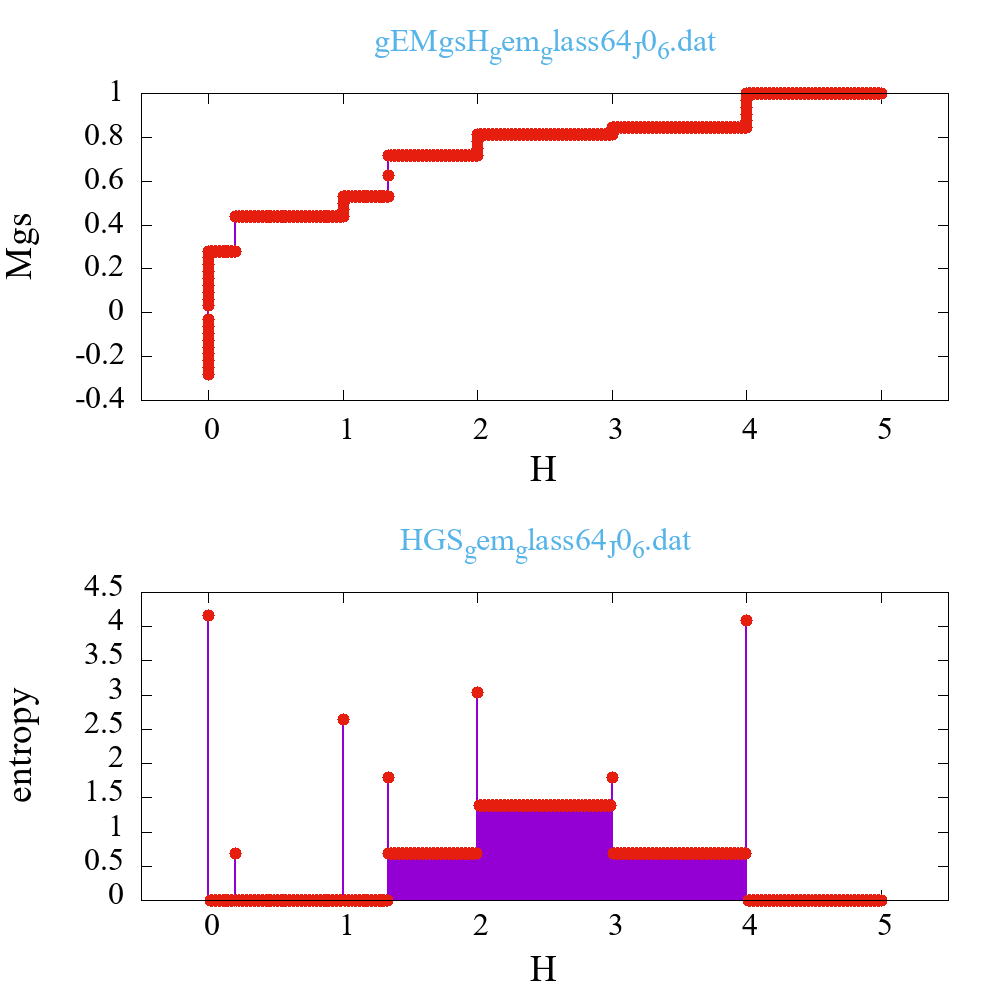
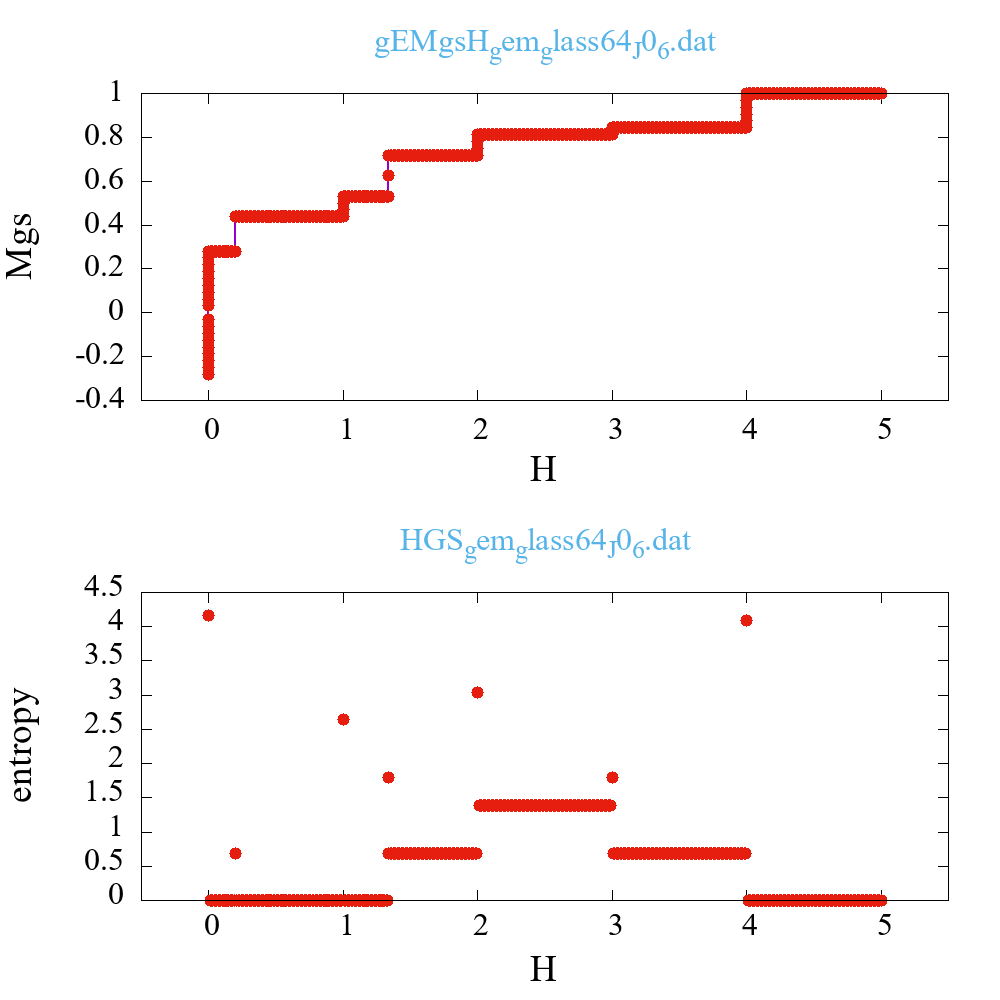
картинки в поле

Changed region(s): [[0.372, 0.806, 0.744, 0.899]]

diff --git a/main.tex b/main.tex
@@ -746,11 +746,18 @@ TO DO: \\
 
 
 \begin{figure}[H]
-	\centering
-	\includegraphics[width=0.5\textwidth]{cell_SI_64_J0_1.png}
-	\caption{Спиновый лед, 64 спина, P=0.5}
-	\label{fig:cell_SI_64_J0_1.png}
+	\begin{minipage}[h]{0.45\linewidth}
+		\includegraphics[width=1\linewidth]{cell_SI_64_J0_1.png}
+	\end{minipage}
+	\hfill
+	\begin{minipage}[h]{0.45\linewidth}
+		\includegraphics[width=1\linewidth]{cell_SG_64_J0_6.png}
+	\end{minipage}
+	\caption{Спиновый лед (слева) и спиновое стекло (справа), 64 спина, P=0}
+	\label{fig:cell_SI_SG}
 \end{figure}
+
+
 
 \begin{figure}[H]
 	\centering
@@ -759,114 +766,40 @@ TO DO: \\
 	\label{fig:_multiplot_SI64_J0_1.dat.png}
 \end{figure}
 
-\begin{figure}[H]
-	\centering
-	\includegraphics[width=1\textwidth]{HDOS_dos64_J0_1.dat_H0.png}
-	\caption{DOS, H=0, Спиновый лед, 64 спина, P=0.5}
-	\label{fig:HDOS_dos64_J0_1.dat_H0.png}
-\end{figure}
-
-\begin{figure}[H]
-	\centering
-	\includegraphics[width=1\textwidth]{HDOS_dos64_J0_1.dat_H1.png}
-	\caption{DOS, H=1, Спиновый лед, 64 спина, P=0.5}
-	\label{fig:HDOS_dos64_J0_1.dat_H1.png}
-\end{figure}
-
-\begin{figure}[H]
-	\centering
-	\includegraphics[width=1\textwidth]{HDOS_dos64_J0_1.dat_H2.png}
-	\caption{DOS, H=2, Спиновый лед, 64 спина, P=0.5}
-	\label{fig:HDOS_dos64_J0_1.dat_H2.png}
-\end{figure}
-
-\begin{figure}[H]
-	\centering
-	\includegraphics[width=1\textwidth]{HDOS_dos64_J0_1.dat_H3.png}
-	\caption{DOS, H=3, Спиновый лед, 64 спина, P=0.5}
-	\label{fig:HDOS_dos64_J0_1.dat_H3.png}
-\end{figure}
-
-\begin{figure}[H]
-	\centering
-	\includegraphics[width=1\textwidth]{HDOS_dos64_J0_1.dat_H4.png}
-	\caption{DOS, H=4, Спиновый лед, 64 спина, P=0.5}
-	\label{fig:HDOS_dos64_J0_1.dat_H4.png}
-\end{figure}
-
-\begin{figure}[H]
-	\centering
-	\includegraphics[width=1\textwidth]{HDOS_dos64_J0_1.dat_H5.png}
-	\caption{DOS, H=5, Спиновый лед, 64 спина, P=0.5}
-	\label{fig:HDOS_dos64_J0_1.dat_H5.png}
-\end{figure}
-
-
-
-
 
 
 \begin{figure}[H]
-	\centering
-	\includegraphics[width=0.5\textwidth]{cell_SG_64_J0_1.png}
-	\caption{Спиновое стекло, образец 1, 64 спина, P=0.5}
-	\label{fig:cell_SG_64_J0_1.png}
-\end{figure}
-
-\begin{figure}[H]
-	\centering
-	\includegraphics[width=1\textwidth]{_multiplot_SG64_J0_1.dat.png}
-	\caption{Спиновое стекло, образец 1, 64 спина, P=0.5}
-	\label{fig:_multiplot_SG64_J0_1.dat.png}
-\end{figure}
-
-\begin{figure}[H]
-	\centering
-	\includegraphics[width=1\textwidth]{HDOS_gem_glass64_J0_1.dat_H0.png}
-	\caption{DOS, H=0, Спиновое стекло, образец 1, 64 спина, P=0.5}
-	\label{fig:HDOS_gem_glass64_J0_1.dat_H0.png}
-\end{figure}
-
-\begin{figure}[H]
-	\centering
-	\includegraphics[width=1\textwidth]{HDOS_gem_glass64_J0_1.dat_H0.666667.png}
-	\caption{DOS, H=0.666667, Спиновое стекло, образец 1, 64 спина, P=0.5}
-	\label{fig:HDOS_gem_glass64_J0_1.dat_H0.666667.png}
-\end{figure}
-
-\begin{figure}[H]
-	\centering
-	\includegraphics[width=1\textwidth]{HDOS_gem_glass64_J0_1.dat_H1.png}
-	\caption{DOS, H=1, Спиновое стекло, образец 1, 64 спина, P=0.5}
-	\label{fig:HDOS_gem_glass64_J0_1.dat_H1.png}
-\end{figure}
-
-\begin{figure}[H]
-	\centering
-	\includegraphics[width=1\textwidth]{HDOS_gem_glass64_J0_1.dat_H2.png}
-	\caption{DOS, H=2, Спиновое стекло, образец 1, 64 спина, P=0.5}
-	\label{fig:HDOS_gem_glass64_J0_1.dat_H2.png}
-\end{figure}
-
-\begin{figure}[H]
-	\centering
-	\includegraphics[width=1\textwidth]{HDOS_gem_glass64_J0_1.dat_H3.png}
-	\caption{DOS, H=3, Спиновое стекло, образец 1, 64 спина, P=0.5}
-	\label{fig:HDOS_gem_glass64_J0_1.dat_H3.png}
-\end{figure}
-
-\begin{figure}[H]
-	\centering
-	\includegraphics[width=1\textwidth]{HDOS_gem_glass64_J0_1.dat_H4.png}
-	\caption{DOS, H=4, Спиновое стекло, образец 1, 64 спина, P=0.5}
-	\label{fig:HDOS_gem_glass64_J0_1.dat_H4.png}
-\end{figure}
-
-\begin{figure}[H]
-	\centering
-	\includegraphics[width=1\textwidth]{HDOS_gem_glass64_J0_1.dat_H5.png}
-	\caption{DOS, H=5, Спиновое стекло, образец 1, 64 спина, P=0.5}
-	\label{fig:HDOS_gem_glass64_J0_1.dat_H5.png}
+	\begin{minipage}[h]{0.45\linewidth}
+		\centering H=0
+		\includegraphics[width=1\linewidth]{HDOS_dos64_J0_1.dat_H0.png}
+	\end{minipage}
+	\hfill
+	\begin{minipage}[h]{0.45\linewidth}
+		\centering H=1
+		\includegraphics[width=1\linewidth]{HDOS_dos64_J0_1.dat_H1.png}
+	\end{minipage}
+	\vfill
+	\begin{minipage}[h]{0.45\linewidth}
+		\centering H=2
+		\includegraphics[width=1\linewidth]{HDOS_dos64_J0_1.dat_H2.png}
+	\end{minipage}
+	\hfill
+	\begin{minipage}[h]{0.45\linewidth}
+		\centering H=3
+		\includegraphics[width=1\linewidth]{HDOS_dos64_J0_1.dat_H3.png}
+	\end{minipage}
+	\vfill
+	\begin{minipage}[h]{0.45\linewidth}
+		\centering H=4
+		\includegraphics[width=1\linewidth]{HDOS_dos64_J0_1.dat_H4.png}
+	\end{minipage}
+	\hfill
+	\begin{minipage}[h]{0.45\linewidth}
+		\centering H=5
+		\includegraphics[width=1\linewidth]{HDOS_dos64_J0_1.dat_H5.png}
+	\end{minipage}
+	\caption{DOS, H=0-5, Спиновый лед, 64 спина, P=0.5}
+	\label{fig:HDOS_dos64_J0_1.dat}
 \end{figure}
 
 
@@ -891,64 +824,51 @@ TO DO: \\
 	\label{fig:_multiplot_SG64_J0_6.dat.png}
 \end{figure}
 
-\begin{figure}[H]
-	\centering
-	\includegraphics[width=1\textwidth]{HDOS_gem_glass64_J0_6.dat_H0.png}
-	\caption{DOS, H=0, Спиновое стекло, образец 6, 64 спина, P=0.5}
-	\label{fig:HDOS_gem_glass64_J0_6.dat_H0.png}
-\end{figure}
+
 
 \begin{figure}[H]
-	\centering
-	\includegraphics[width=1\textwidth]{HDOS_gem_glass64_J0_6.dat_H0.2.png}
-	\caption{DOS, H=0.2, Спиновое стекло, образец 6, 64 спина, P=0.5}
-	\label{fig:HDOS_gem_glass64_J0_6.dat_H0.2.png}
+	\begin{minipage}[h]{0.45\linewidth}
+		\centering H=0
+		\includegraphics[width=1\linewidth]{HDOS_gem_glass64_J0_6.dat_H0.png}
+	\end{minipage}
+	\hfill
+	\begin{minipage}[h]{0.45\linewidth}
+		\centering H=0.2
+		\includegraphics[width=1\linewidth]{HDOS_gem_glass64_J0_6.dat_H0.2.png}
+	\end{minipage}
+	\vfill
+	\begin{minipage}[h]{0.45\linewidth}
+		\centering H=1
+		\includegraphics[width=1\linewidth]{HDOS_gem_glass64_J0_6.dat_H1.png}
+	\end{minipage}
+	\hfill
+	\begin{minipage}[h]{0.45\linewidth}
+		\centering H=1.33333
+		\includegraphics[width=1\linewidth]{HDOS_gem_glass64_J0_6.dat_H1.33333.png}
+	\end{minipage}
+	\vfill
+	\begin{minipage}[h]{0.45\linewidth}
+		\centering H=2
+		\includegraphics[width=1\linewidth]{HDOS_gem_glass64_J0_6.dat_H2.png}
+	\end{minipage}
+	\hfill
+	\begin{minipage}[h]{0.45\linewidth}
+		\centering H=3
+		\includegraphics[width=1\linewidth]{HDOS_gem_glass64_J0_6.dat_H3.png}
+	\end{minipage}
+	\vfill
+	\begin{minipage}[h]{0.45\linewidth}
+		\centering H=4
+		\includegraphics[width=1\linewidth]{HDOS_gem_glass64_J0_6.dat_H4.png}
+	\end{minipage}
+	\hfill
+	\begin{minipage}[h]{0.45\linewidth}
+		\centering H=5
+		\includegraphics[width=1\linewidth]{HDOS_gem_glass64_J0_6.dat_H5.png}
+	\end{minipage}
+	\caption{DOS, H=0-5, Спиновое стекло, 64 спина, P=0.5}
+	\label{fig:HDOS_gem_glass64_J0_6.dat}
 \end{figure}
-
-\begin{figure}[H]
-	\centering
-	\includegraphics[width=1\textwidth]{HDOS_gem_glass64_J0_6.dat_H1.png}
-	\caption{DOS, H=1, Спиновое стекло, образец 6, 64 спина, P=0.5}
-	\label{fig:HDOS_gem_glass64_J0_6.dat_H1.png}
-\end{figure}
-
-\begin{figure}[H]
-	\centering
-	\includegraphics[width=1\textwidth]{HDOS_gem_glass64_J0_6.dat_H1.33333.png}
-	\caption{DOS, H=1.33333, Спиновое стекло, образец 6, 64 спина, P=0.5}
-	\label{fig:HDOS_gem_glass64_J0_6.dat_H1.33333.png}
-\end{figure}
-
-\begin{figure}[H]
-	\centering
-	\includegraphics[width=1\textwidth]{HDOS_gem_glass64_J0_6.dat_H2.png}
-	\caption{DOS, H=2, Спиновое стекло, образец 6, 64 спина, P=0.5}
-	\label{fig:HDOS_gem_glass64_J0_6.dat_H2.png}
-\end{figure}
-
-\begin{figure}[H]
-	\centering
-	\includegraphics[width=1\textwidth]{HDOS_gem_glass64_J0_6.dat_H3.png}
-	\caption{DOS, H=3, Спиновое стекло, образец 6, 64 спина, P=0.5}
-	\label{fig:HDOS_gem_glass64_J0_6.dat_H3.png}
-\end{figure}
-
-\begin{figure}[H]
-	\centering
-	\includegraphics[width=1\textwidth]{HDOS_gem_glass64_J0_6.dat_H4.png}
-	\caption{DOS, H=4, Спиновое стекло, образец 6, 64 спина, P=0.5}
-	\label{fig:HDOS_gem_glass64_J0_6.dat_H4.png}
-\end{figure}
-
-\begin{figure}[H]
-	\centering
-	\includegraphics[width=1\textwidth]{HDOS_gem_glass64_J0_6.dat_H5.png}
-	\caption{DOS, H=5, Спиновое стекло, образец 6, 64 спина, P=0.5}
-	\label{fig:HDOS_gem_glass64_J0_6.dat_H5.png}
-\end{figure}
-
-
-
 
 
 
